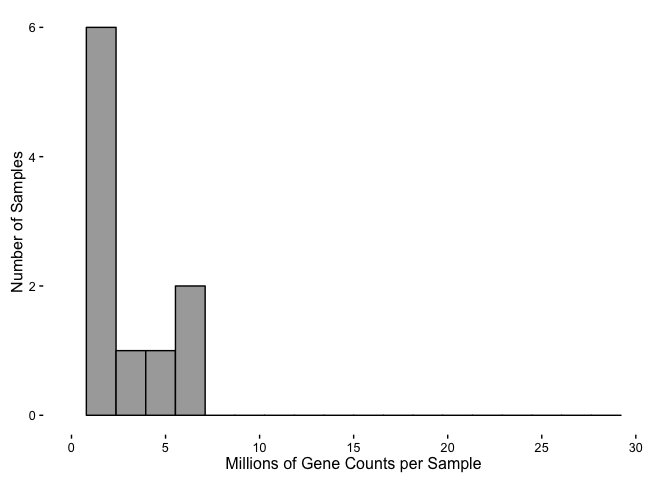
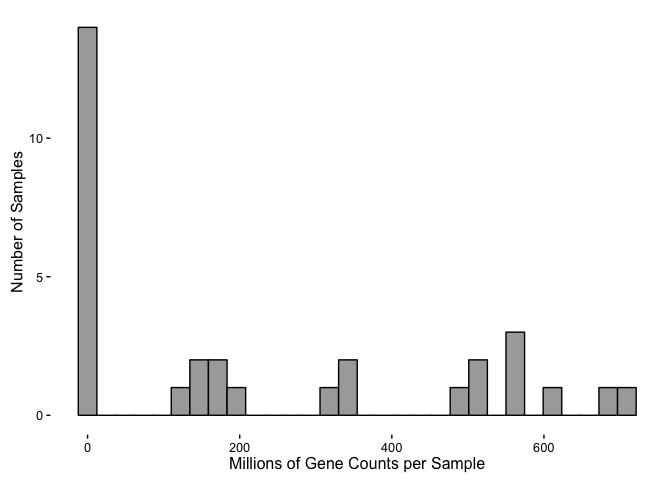
combo

diff --git a/bin/combo.md b/bin/combo.md
@@ -1,6 +1,18 @@
+These first two plots show that with normalization (as done by DESeq)
+that our samples can be on the same y axis scale.
+
 ![](../figures/combo/DifferentialGeneExpressionAnalysis-1.png)![](../figures/combo/DifferentialGeneExpressionAnalysis-2.png)
 
+This plot shows the clear separation between the cembrowski and the
+harris data. Next, the regions and the the dorsal ventral patterning
+seaparates in the cembrowski dataset. Next, DG in my data appeas
+distinct but CA1 and CA3 are mixed. In the bottom heatmap, you can see
+that including more genes helps separate CA1 and CA3 in my data.
+
 ![](../figures/combo/Heatmap100DEgenes-1.png)![](../figures/combo/Heatmap100DEgenes-2.png)
+
+I really love this PCA analysis. PC1 separates the two experiments. PC2
+separates DG from the CAs.
 
 ![](../figures/combo/PCA-1.png)
 
